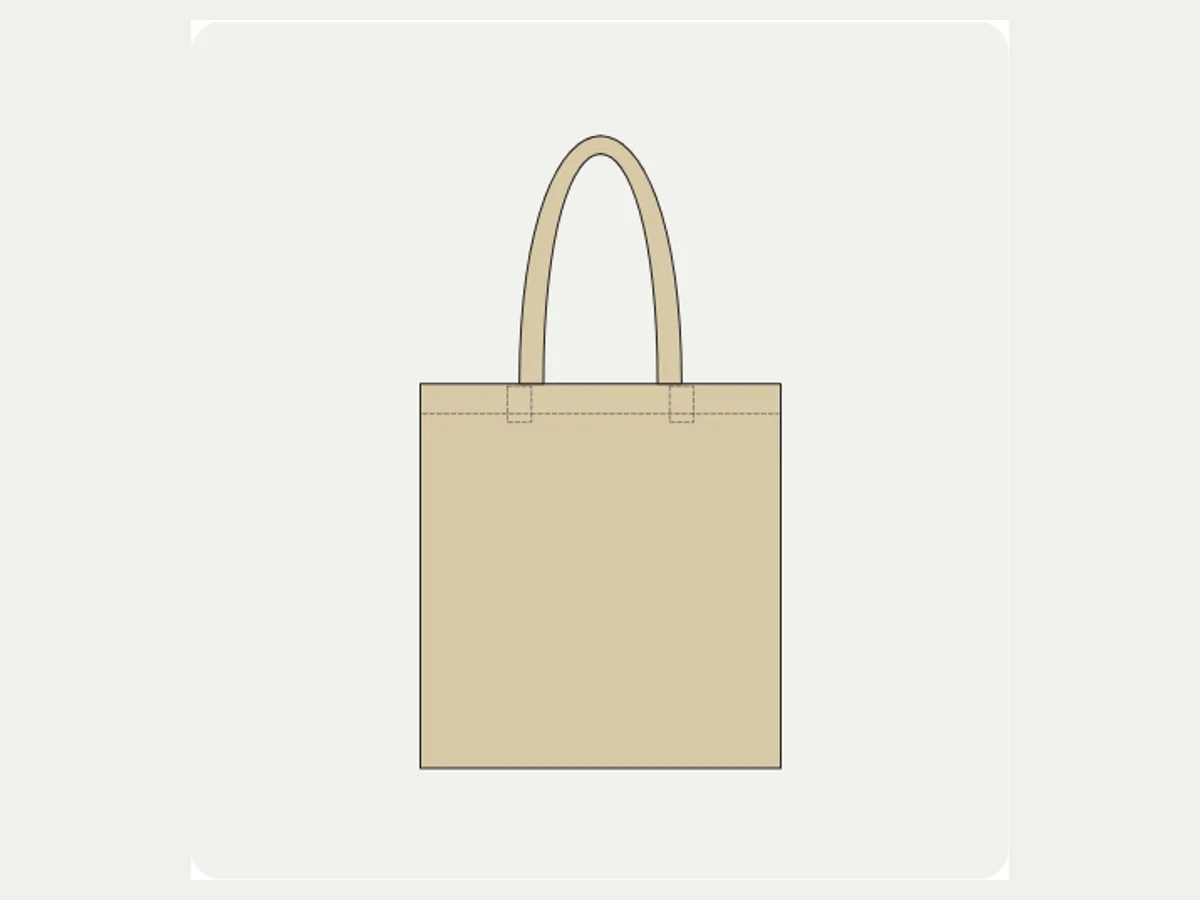
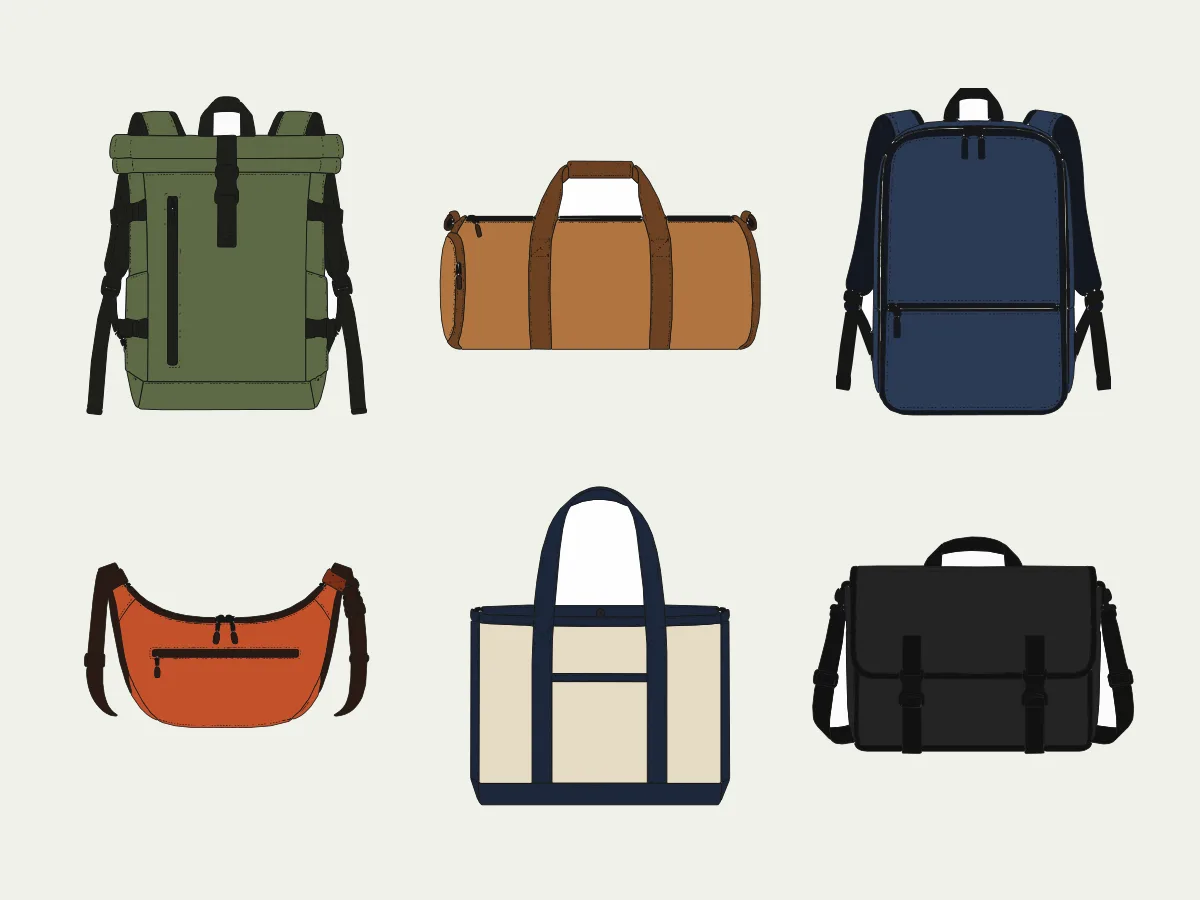
Make page: a screen recording of the Lab, real bags and shoes, a real drawing
- "See it work" opens with a screen recording of the Design Lab in use (scripts/make-recording.cjs): a hoodie from the recipe menu to its
  pattern laid out on the cloth, then a pocket tee drawn with the brush on a blank page, with a visible cursor and a caption per step. The
  video lives in Shopify Files, so it shows even where the hub's walkthrough data cannot load; the click-through stays under it.
- The bags and footwear cards are six bags and six shoes from the Lab's own library, each in its own colourway (scripts/make-type-cards.mjs).
- "Draw it yourself" shows a tee actually drawn in the Studio over its guide, not the blank page.

Claude-Session: https://claude.ai/code/session_017HhaG43tFnDLXHBBMSMfQq

diff --git a/docs/make-page-update/assets-make-try.css b/docs/make-page-update/assets-make-try.css
@@ -5,6 +5,9 @@
 .mkt button:focus-visible{outline:2px solid var(--deep);outline-offset:3px}
 
 /* ---- see it work ---- */
+.mkt-film{margin:0 0 clamp(28px,4vw,52px)}.mkt-film figcaption{margin-top:10px}
+.mkt-video{display:block;width:100%;height:auto;aspect-ratio:1440/900;background:var(--panel)}
+.mkt-sub{display:flex;align-items:baseline;justify-content:space-between;gap:12px;flex-wrap:wrap;margin:0 0 16px}.mkt-sub h3{margin:0}
 .mkt-walk{display:grid;grid-template-columns:minmax(0,1fr) minmax(260px,340px);gap:clamp(18px,3vw,40px);align-items:start}
 .mkt-screen{border:1px solid var(--line);border-radius:18px;background:var(--card);overflow:hidden;box-shadow:0 30px 60px -30px rgba(20,20,22,.35)}
 .mkt-bar{display:flex;align-items:center;gap:7px;height:34px;padding:0 14px;border-bottom:1px solid var(--line);background:var(--panel)}

diff --git a/docs/make-page-update/README.md b/docs/make-page-update/README.md
@@ -99,6 +99,8 @@ The screenshots are real screens from the live Lab, taken signed in to the Futur
 
 Numbers on the page (26 bases, 31 add-ons, 382 sketches, prices) are the same as `docs/marketing/video-brief.md`. Update both when they change.
 
+The screen recording at the top of "see it work" (`make-lab-session.mp4`, about 73 seconds, 2 MB) is the Lab in use, recorded as it runs with a cursor and a caption per step: the hoodie from the recipe menu to its pattern laid out on the cloth, then a pocket tee drawn with the brush on a blank page over its outline, filled and topstitched (the drawing is sped up 1.7×). It is in the store's Files like the sew-out, so it shows even where the hub's walkthrough data cannot load; its poster (`make-lab-session-poster.webp`) and the "draw it yourself" picture (`make-way-scratch.webp`) come from the same run. To record it again: `node scripts/make-recording.cjs --base <hub> --token <a demo room's client token>`, then upload the video to Files under the same name. The bags and footwear cards (`make-type-bags.webp`, `make-type-footwear.webp`) are six bags and six shoes from the Lab's library, each in a colourway of its own: `node scripts/make-type-cards.mjs`.
+
 The sew-out video (`make-sewout-v3.mp4`) is in the store's Files (Content → Files) and the section loads it with `file_url`. The demo pieces in the screenshots (the Lane Six hoodie and the Future Tour tee) carry real Future Basics graphics from the Lab's library; they were made, separated and digitized on a local copy of the app.
 
 ## To publish
